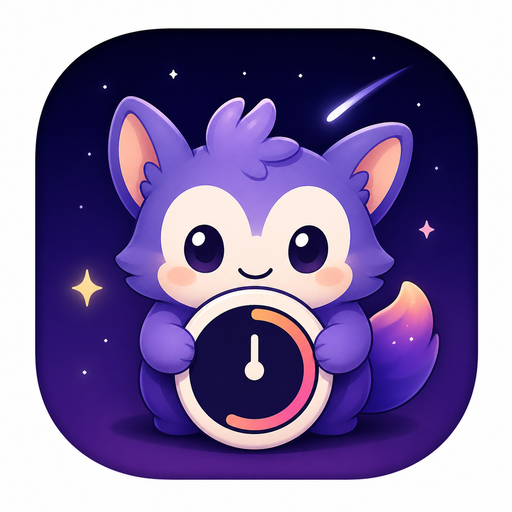
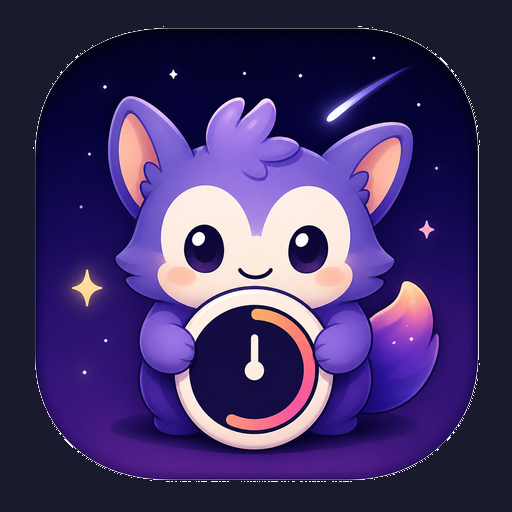
updated

Changed region(s): [[0.0, 0.0, 1.0, 1.0]]

diff --git a/plugins/removeRecordAudio.js b/plugins/removeRecordAudio.js
@@ -1,0 +1,17 @@
+const { withAndroidManifest } = require('@expo/config-plugins');
+
+const RECORD_AUDIO = 'android.permission.RECORD_AUDIO';
+
+module.exports = function removeRecordAudio(config) {
+  return withAndroidManifest(config, (config) => {
+    const manifest = config.modResults.manifest;
+    const isNotRecordAudio = (p) => p.$?.['android:name'] !== RECORD_AUDIO;
+    if (manifest['uses-permission']) {
+      manifest['uses-permission'] = manifest['uses-permission'].filter(isNotRecordAudio);
+    }
+    if (manifest['uses-permission-sdk-23']) {
+      manifest['uses-permission-sdk-23'] = manifest['uses-permission-sdk-23'].filter(isNotRecordAudio);
+    }
+    return config;
+  });
+};